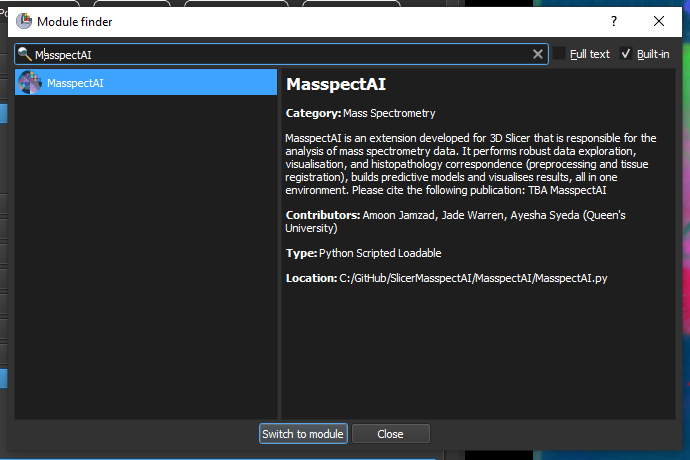
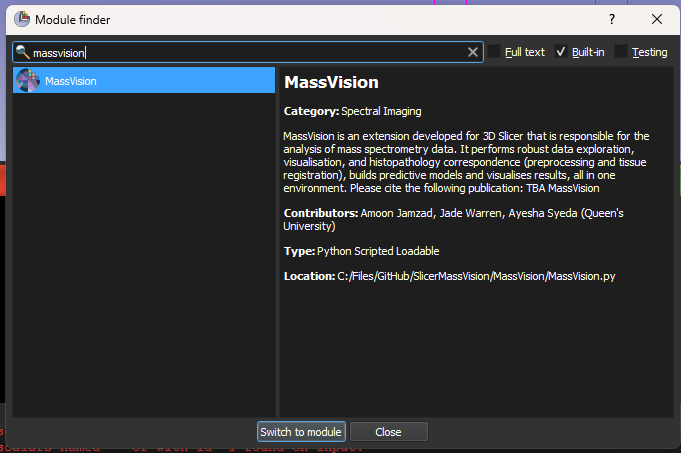
UPD docs

Changed region(s): [[0.0, 0.0, 1.0, 1.0]]

diff --git a/docs/source/Installation.rst b/docs/source/Installation.rst
@@ -2,20 +2,20 @@ Installation
 =====
 
 .. note::
-    SlicerDESI is hosted in 3D Slicer image computation platform. If you are new to 3D Slicer, we recommend that you begin by referencing some of the available resources on the `3D Slicer Documentation <https://www.slicer.org/wiki/Documentation/4.10/Training>`_ page. Ensure that you have the latest version of 3D Slicer installed. You can download the most recent version of 3D Slicer `here <https://download.slicer.org>`_.
+    MassVision is hosted in 3D Slicer image computation platform. If you are new to 3D Slicer, we recommend that you begin by referencing some of the available resources on the `3D Slicer Documentation <https://www.slicer.org/wiki/Documentation/4.10/Training>`_ page. Ensure that you have the latest version of 3D Slicer installed. You can download the most recent version of 3D Slicer `here <https://download.slicer.org>`_.
 
-.. image:: https://raw.githubusercontent.com/jamzad/SlicerDESI/d3e4ffc2cf8aa2ee18ba3d328e6d3b33eca83722/docs/source/Images/SlicerLogo.png
+.. image:: https://raw.githubusercontent.com/jamzad/MassVision/main/docs/source/Images/SlicerLogo.png
       :width: 150
       :align: center
 
-**To being experimentation with SlicerDESI, the module must be imported to 3D Slicer from your local desktop.**
+**To being experimentation with MassVision, the module must be imported to 3D Slicer from your local desktop.**
 
 #. Open 3D Slicer. 
 #. In the 'Modules' section of the toolbar, click the magnifying glass: |ModulesIcon| and find 'Extension Wizard'. Open the module. 
 #. Select 'Select Extension'.
-#. In the file explorer that pops up, navigate to where you’ve saved the folder SlicerDESI. Select the folder, for example: "c:/Users/Jade/Desktop/SlicerDESI".
+#. In the file explorer that pops up, navigate to where you’ve saved the folder MassVision. Select the folder, for example: "c:/Users/Desktop/MassVision".
 #. In the popup, select 'Add selected module to search paths', then click 'Yes'. The extension will take some time to install. You may track the progress in the Python Interactor.
-#. In the 'Modules' section of the toolbar, find SlicerDESI and open the module.
+#. In the 'Modules' section of the toolbar, find MassVision and open the module.
 #. Go to 'Edit' -> 'Application Settings' and update "Default scene location" to the desired folder for saving results.
 
 **Alternatively:**
@@ -24,24 +24,26 @@ Installation
 #. From the menu on the left, select Modules.
 #. To the right of additional module paths select the arrow. 
 #. Select 'Add'.
-#. Select the file folder where you have saved SlicerDESI, for example: "c:\Users\Jade\Desktop\SlicerDESI" |ico2|
+#. Select the file folder where you have saved MassVision, for example: "c:\Users\Desktop\MassVision"
 #. At the bottom of the window select 'Okay'.
 #. 3D Slicer will restart.
-#. Re-open 3D Slicer, beside 'Modules' in the toolbar, select the magnifying glass icon.
-#. Search for SlicerDESI and switch to the module.  
 
-.. image:: https://raw.githubusercontent.com/jamzad/SlicerDESI/main/docs/source/Images/ModuleFinder.png
+.. image:: https://raw.githubusercontent.com/jamzad/MassVision/main/docs/source/Images/AddingModulePath.png
+    :width: 600
+
+#. Re-open 3D Slicer, beside 'Modules' in the toolbar, select the magnifying glass icon: |ModulesIcon| and search for MassVision and switch to the module.  
+
+
+.. image:: https://raw.githubusercontent.com/jamzad/MassVision/main/docs/source/Images/ModuleFinder.png
     :width: 600
 
 .. |ico1| image :: https://github.com/jadewarren/ViPRE2.0-clone/assets/132283032/d3a301ad-5080-4460-a7c4-2665d33e98b3
 
-.. |ico2| image ::  https://github.com/jadewarren/ViPRE2.0-clone/assets/132283032/b8d6536e-1c34-4b64-a988-791edc1682d0
-
-.. |ModulesIcon| image:: https://raw.githubusercontent.com/jamzad/SlicerDESI/main/docs/source/Images/ModulesIcon.png
+.. |ModulesIcon| image:: https://raw.githubusercontent.com/jamzad/MassVision/main/docs/source/Images/ModulesIcon.png
    :width: 80
 
 
 Once the module is open, the 3D Slicer scene will look like this: 
 
-.. image:: https://raw.githubusercontent.com/jamzad/SlicerDESI/main/docs/source/Images/SlicerDESIHome.png
+.. image:: https://raw.githubusercontent.com/jamzad/MassVision/main/docs/source/Images/MassVisionHome.png
     :width: 600
